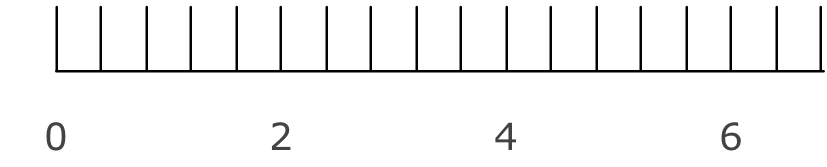
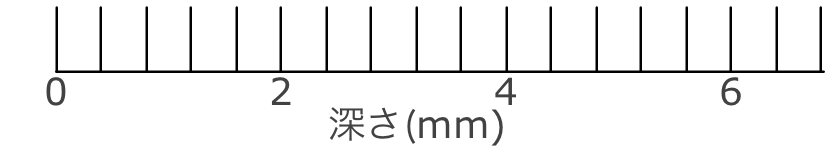
Add x-axis to canvas

diff --git a/sample.html b/sample.html
@@ -59,6 +59,12 @@
 
     var plots = []
 
+    var img = new Image();
+    img.onload = function () {
+      ctx.drawImage(img, -30, 450);
+    }
+    img.src = "img/x-axis.png";
+
     /* Mouse Capturing Work */
     canvas.addEventListener('mousemove', function(e) {
       last_mouse.x = mouse.x;
